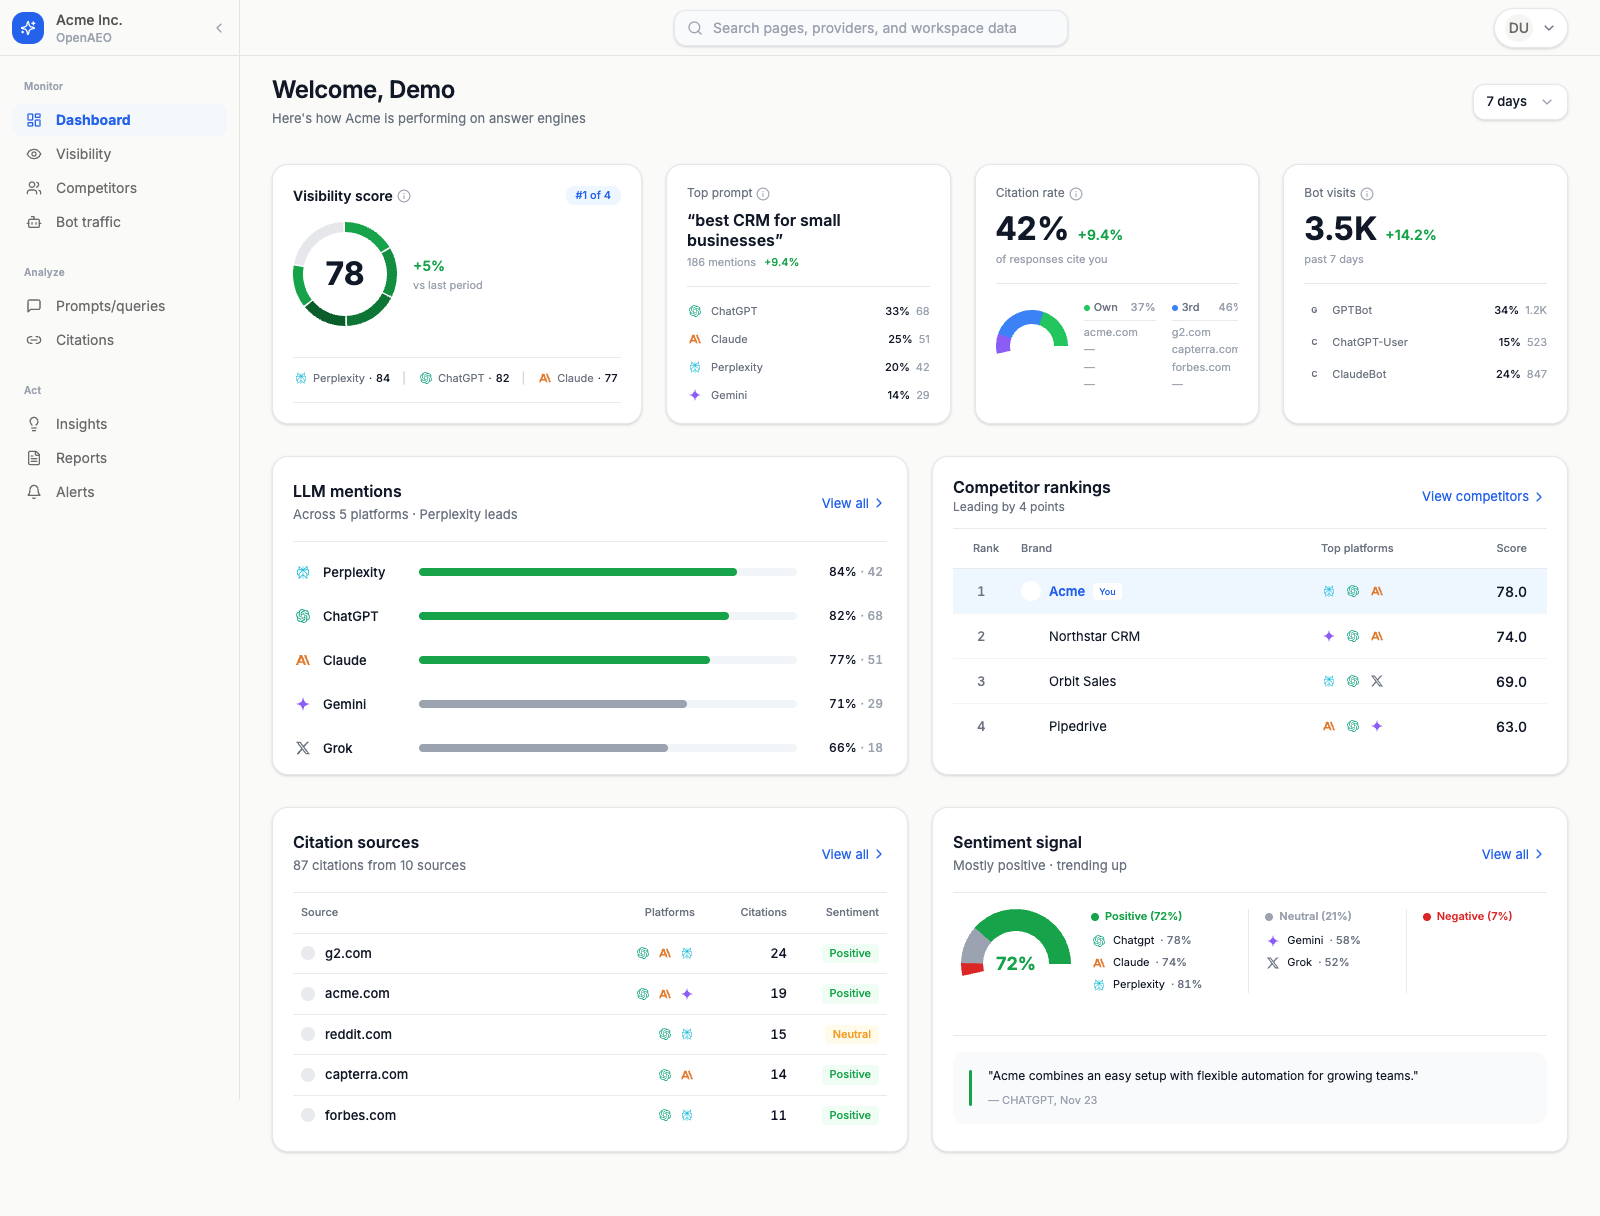
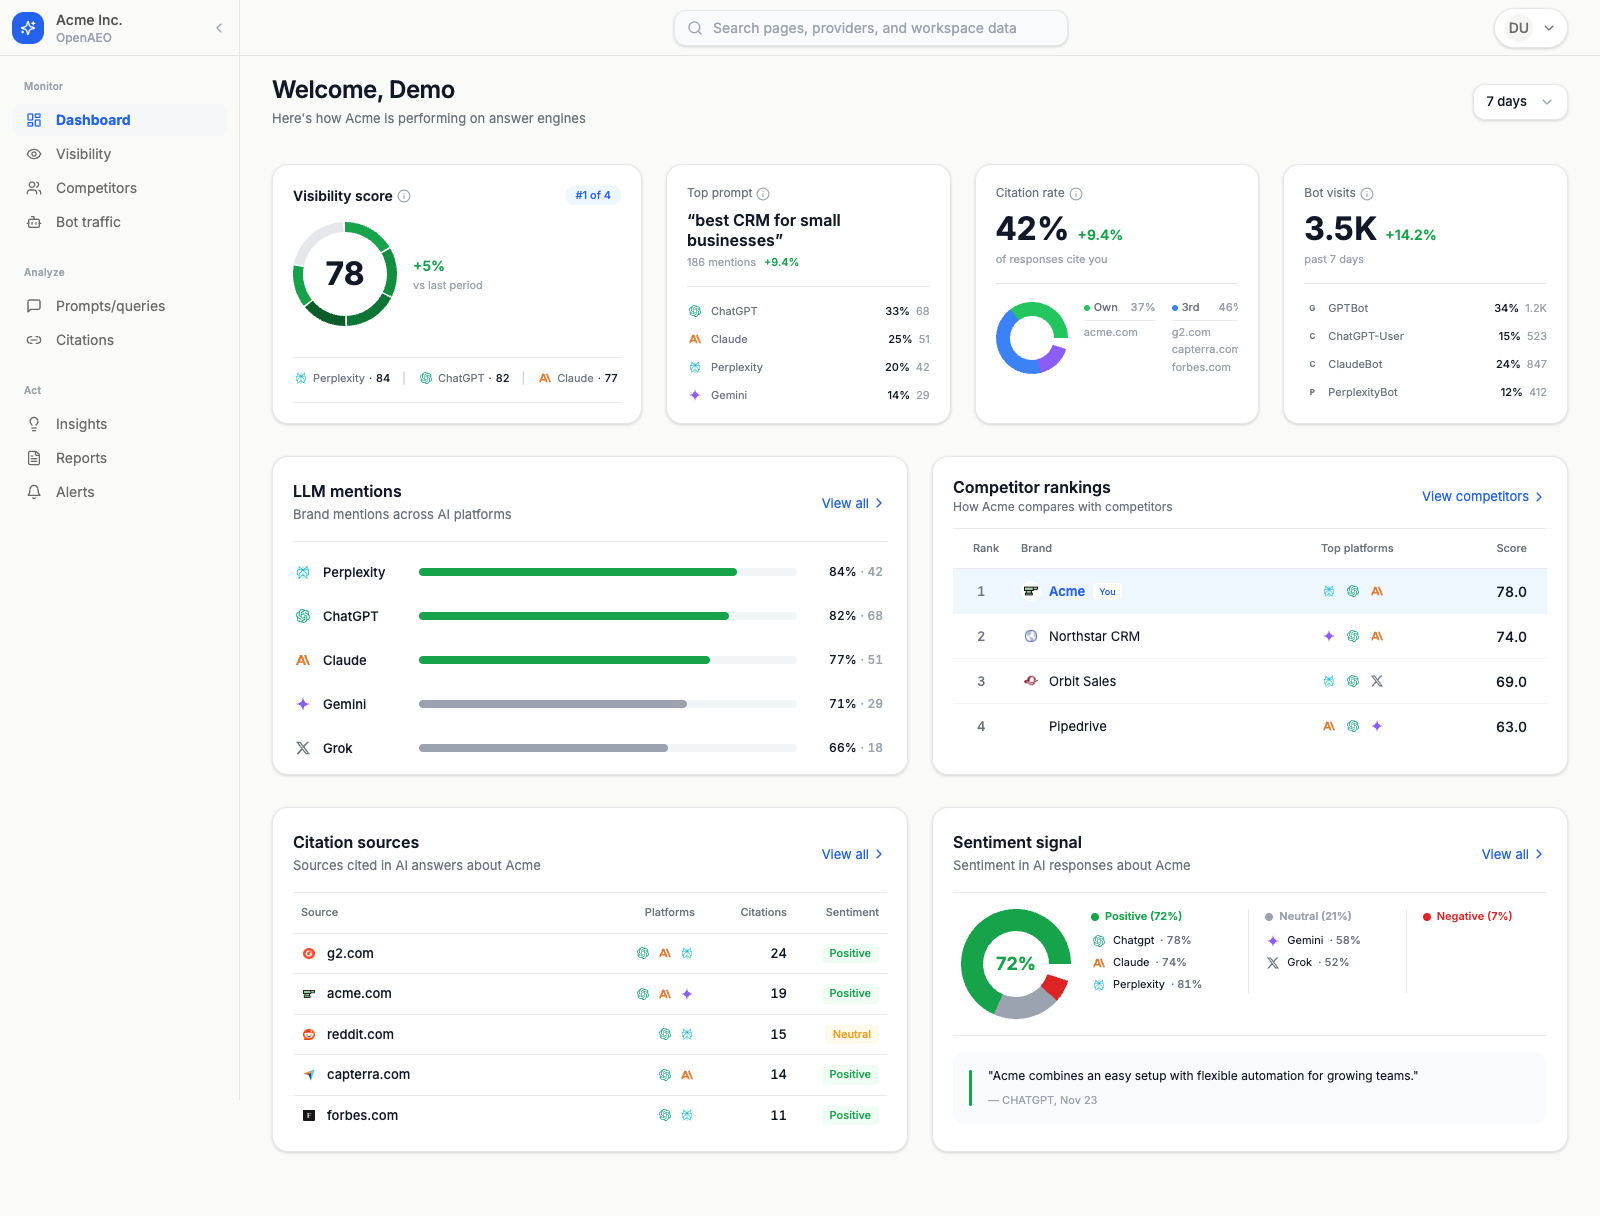
Polish dashboard preview details

diff --git a/api/routes/dashboard.ts b/api/routes/dashboard.ts
@@ -610,75 +610,13 @@ function categorizeCitationSources(
 /**
  * Build contextual card subtitles
  */
-function buildCardSubtitles(
-  platformScores: PlatformScore[],
-  competitorRanks: CompetitorRank[],
-  citationSources: CategorizedCitationSources,
-  sentimentBreakdown: SentimentBreakdown,
-  topPlatform: { id: string; name: string; icon: string }
-): DashboardResponse['cardSubtitles'] {
-  // LLM mentions
-  const activePlatformCount = platformScores.filter(p => p.mentions > 0).length;
-  const llmMentionsSubtitle =
-    activePlatformCount > 0 ? `Across ${activePlatformCount} platforms · ${topPlatform.name} leads` : "Where you're visible";
-
-  // Competitor rankings
-  let competitorRankingsSubtitle = 'Your position in the market';
-  if (competitorRanks.length > 1) {
-    const brandRankEntry = competitorRanks.find(c => c.isYou);
-    if (brandRankEntry) {
-      if (brandRankEntry.rank === 1) {
-        const runner = competitorRanks.find(c => c.rank === 2);
-        const gap = runner ? Math.round(brandRankEntry.score - runner.score) : 0;
-        competitorRankingsSubtitle = gap > 0 ? `Leading by ${gap} pts` : 'Neck and neck with #2';
-      } else {
-        const leader = competitorRanks[0];
-        const gap = Math.round(leader.score - brandRankEntry.score);
-        competitorRankingsSubtitle = `${gap} pts behind ${leader.name}`;
-      }
-    }
-  }
-
-  // Citation sources - now using categorized data
-  const totalCitationCount = citationSources.owned.count + citationSources.thirdParty.count + citationSources.social.count;
-  const totalSources = citationSources.owned.sites.length + citationSources.thirdParty.sites.length + citationSources.social.sites.length;
-  const citationSourcesSubtitle =
-    totalCitationCount > 0 ? `${totalCitationCount} citations from ${totalSources} sources` : 'What AI cites about you';
-
-  // Citation footer - highlight the dominant category
-  let citationFooterText = '';
-  if (totalCitationCount > 0) {
-    // Find dominant category
-    const categories = [
-      { name: 'owned', ...citationSources.owned },
-      { name: 'third-party', ...citationSources.thirdParty },
-      { name: 'social', ...citationSources.social },
-    ].sort((a, b) => b.count - a.count);
-    const dominant = categories[0];
-    const topSite = dominant.sites[0] || '';
-    citationFooterText = topSite ? `${topSite} · ${dominant.count} citations · ${dominant.percentage}% ${dominant.name}` : '';
-  }
-
-  // Sentiment signal
-  const dominantSentiment =
-    sentimentBreakdown.positive >= sentimentBreakdown.neutral && sentimentBreakdown.positive >= sentimentBreakdown.negative
-      ? 'positive'
-      : sentimentBreakdown.negative >= sentimentBreakdown.positive && sentimentBreakdown.negative >= sentimentBreakdown.neutral
-        ? 'negative'
-        : 'neutral';
-  const sentimentTrendDir =
-    sentimentBreakdown.trend > 1 ? 'trending up' : sentimentBreakdown.trend < -1 ? 'trending down' : 'stable';
-  const sentimentSignalSubtitle =
-    sentimentBreakdown.positive + sentimentBreakdown.neutral + sentimentBreakdown.negative > 0
-      ? `Mostly ${dominantSentiment} · ${sentimentTrendDir}`
-      : 'How AI describes you';
-
+function buildCardSubtitles(brandName: string): DashboardResponse['cardSubtitles'] {
   return {
-    llmMentions: llmMentionsSubtitle,
-    competitorRankings: competitorRankingsSubtitle,
-    citationSources: citationSourcesSubtitle,
-    citationFooter: citationFooterText,
-    sentimentSignal: sentimentSignalSubtitle,
+    llmMentions: 'Brand mentions across AI platforms',
+    competitorRankings: `How ${brandName} compares with competitors`,
+    citationSources: `Sources cited in AI answers about ${brandName}`,
+    citationFooter: '',
+    sentimentSignal: `Sentiment in AI responses about ${brandName}`,
   };
 }
 
@@ -859,6 +797,7 @@ async function computeDashboardData(
       rank: index + 1,
       id: entity.isBrand ? 'your-brand' : entity.name.toLowerCase().replace(/\s+/g, '-'),
       name: entity.name,
+      domain: entity.isBrand ? activeBrandConfig?.domain || undefined : competitors.find(competitor => competitor.name === entity.name)?.domain || undefined,
       score: entity.score,
       trend,
       isYou: entity.isBrand,
@@ -1029,7 +968,7 @@ async function computeDashboardData(
   // =========================================================================
   const [onboarding, cardSubtitles] = await Promise.all([
     getOnboardingSteps(hasResponses),
-    Promise.resolve(buildCardSubtitles(platformScores, competitorRanks, citationSources, sentimentBreakdown, topPlatform)),
+    Promise.resolve(buildCardSubtitles(brandName)),
   ]);
 
   const activeAlerts = alertHistory.filter(a => a.status === 'pending').length;
@@ -1085,11 +1024,11 @@ function createEmptyResponse(onboarding: Awaited<ReturnType<typeof getOnboarding
     brandName: undefined,
     period: { hasHistoricalData, hasDataInRange: false },
     cardSubtitles: {
-      llmMentions: "Where you're visible",
-      competitorRankings: 'Your position in the market',
-      citationSources: 'What AI cites about you',
+      llmMentions: 'Brand mentions across AI platforms',
+      competitorRankings: 'How your brand compares with competitors',
+      citationSources: 'Sources cited in AI answers about your brand',
       citationFooter: '',
-      sentimentSignal: 'How AI describes you',
+      sentimentSignal: 'Sentiment in AI responses about your brand',
     },
     visibility: { score: 0, previousScore: 0, trend: 0, trendDirection: 'stable' },
     metrics: {

diff --git a/client/src/components/dashboard/citation-sources-card.tsx b/client/src/components/dashboard/citation-sources-card.tsx
@@ -5,6 +5,7 @@ import { Search } from 'lucide-react';
 import { SentimentBadge } from '@/components/shared';
 import { TableHeader } from '@/components/shared';
 import { PlatformIcon } from '@/components/ui/platform-icon';
+import { CompanyAvatar } from '@/components/ui/company-avatar';
 import { Tooltip, TooltipContent, TooltipProvider, TooltipTrigger } from '@/components/ui/tooltip';
 
 interface CitationSource {
@@ -83,7 +84,7 @@ export function CitationSourcesCard({
                                             )}
                                         >
                                             <div className="flex items-center gap-2.5 min-w-0">
-                                                <div className="w-3.5 h-3.5 rounded-full bg-figma-border-light shrink-0" />
+                                                <CompanyAvatar name={source.domain} domain={source.domain} size="xs" />
                                                 <span className="text-figma-sm font-medium text-figma-primary truncate">
                                                     {source.domain}
                                                 </span>
@@ -107,7 +108,7 @@ export function CitationSourcesCard({
                                     >
                                         <div className="bg-figma-card rounded-xl p-4 min-w-[220px] border border-figma-border shadow-lg">
                                             <div className="flex items-center gap-2 mb-3">
-                                                <div className="w-4 h-4 rounded-full bg-figma-border-light shrink-0" />
+                                                <CompanyAvatar name={source.domain} domain={source.domain} size="sm" />
                                                 <span className="text-figma-base font-semibold text-figma-primary">{source.domain}</span>
                                             </div>
                                             <div className="h-px bg-figma-border-light mb-3" />

diff --git a/client/src/components/competitors/competitor-metrics.tsx b/client/src/components/competitors/competitor-metrics.tsx
@@ -603,7 +603,7 @@ const TOPIC_COLORS: Record<string, { bg: string; text: string }> = {
 };
 
 function TopicBadge({ topic }: { topic: string }) {
-  const colors = TOPIC_COLORS[topic] || { bg: 'bg-gray-50', text: 'text-gray-600' };
+  const colors = TOPIC_COLORS[topic] || { bg: 'bg-figma-hover', text: 'text-figma-secondary' };
   return (
     <span className={cn('px-1.5 py-0.5 rounded text-[10px] font-medium truncate max-w-[60px]', colors.bg, colors.text)}>
       {topic}
@@ -706,7 +706,7 @@ export function HighIntentCard({ data, isLoading, noPeriodData = false }: HighIn
                   {query}
                 </span>
                 <div className="w-[70px] flex justify-center">
-                  <span className="px-1.5 py-0.5 rounded text-[10px] font-medium bg-gray-50 text-gray-400">
+                  <span className="px-1.5 py-0.5 rounded text-[10px] font-medium bg-figma-hover text-figma-muted">
                     Topic
                   </span>
                 </div>
@@ -840,11 +840,9 @@ export function CitationRateCompetitorCard({ data, isLoading, noPeriodData = fal
               <div className="flex gap-3">
                 {sourceGroups.map((source) => (
                   <div key={source.label} className="w-[80px] shrink-0 space-y-0.5">
-                    {Array.from({ length: 4 }).map((_, index) => (
-                      <p key={index} className="text-figma-2xs text-figma-muted truncate">
-                        {source.sites[index] || '—'}
-                      </p>
-                    ))}
+                    {source.sites.length > 0 ? source.sites.slice(0, 4).map((site) => (
+                      <p key={site} className="text-figma-2xs text-figma-muted truncate">{site}</p>
+                    )) : <p className="text-figma-2xs text-figma-muted">No sources</p>}
                   </div>
                 ))}
               </div>

diff --git a/client/src/components/dashboard/citation-rate-card.tsx b/client/src/components/dashboard/citation-rate-card.tsx
@@ -100,7 +100,6 @@ export function CitationRateCard({
                                     cy="50%"
                                     innerRadius={22}
                                     outerRadius={36}
-                                    paddingAngle={0}
                                     dataKey="percentage"
                                     stroke="none"
                                 >
@@ -149,11 +148,9 @@ export function CitationRateCard({
                                         </span>
                                     </div>
                                     <div className="space-y-0.5">
-                                        {Array.from({ length: 4 }).map((_, index) => (
-                                            <p key={index} className="text-figma-2xs text-figma-muted truncate">
-                                                {source.sites[index] || '—'}
-                                            </p>
-                                        ))}
+                                        {source.sites.length > 0 ? source.sites.slice(0, 4).map((site) => (
+                                            <p key={site} className="text-figma-2xs text-figma-muted truncate">{site}</p>
+                                        )) : <p className="text-figma-2xs text-figma-muted">No sources</p>}
                                     </div>
                                 </div>
                                 ))}

diff --git a/client/src/lib/demo-preview.ts b/client/src/lib/demo-preview.ts
@@ -29,6 +29,7 @@ function ranks() {
     rank: company.rank,
     id: company.id,
     name: company.name,
+    domain: company.domain,
     score: company.score,
     trend: company.trend,
     isYou: company.isYou,
@@ -40,7 +41,7 @@ export function getDemoDashboard(): DashboardResponse {
   return {
     brandName: DEMO_CONFIG.brandName,
     period: { hasHistoricalData: true, hasDataInRange: true },
-    cardSubtitles: { llmMentions: 'Across 5 platforms · Perplexity leads', competitorRankings: 'Leading by 4 points', citationSources: '87 citations from 10 sources', citationFooter: 'G2 leads with 24 citations', sentimentSignal: 'Mostly positive · trending up' },
+    cardSubtitles: { llmMentions: 'Brand mentions across AI platforms', competitorRankings: `How ${DEMO_CONFIG.brandName} compares with competitors`, citationSources: `Sources cited in AI answers about ${DEMO_CONFIG.brandName}`, citationFooter: '', sentimentSignal: `Sentiment in AI responses about ${DEMO_CONFIG.brandName}` },
     visibility: { score: 78, previousScore: 73, trend: 6.8, trendDirection: 'up' },
     metrics: { totalMentions: 208, mentionsTrend: 9.4, avgSentiment: 0.72, sentimentTrend: 4.1, topPlatform: { id: 'perplexity', name: 'Perplexity', icon: 'perplexity' }, activeAlerts: 2 },
     platforms,

diff --git a/client/src/pages/app/dashboard.tsx b/client/src/pages/app/dashboard.tsx
@@ -422,7 +422,7 @@ export function DashboardPage() {
               <div>
                 <span className="block text-figma-md font-semibold text-figma-primary leading-tight">Competitor rankings</span>
                 <span className="text-figma-xs font-normal text-figma-secondary mt-0.5 truncate max-w-[220px] block">
-                  {dashboardData!.cardSubtitles?.competitorRankings || 'Your position in the market'}
+                  {dashboardData!.cardSubtitles?.competitorRankings || 'How your brand compares with competitors'}
                 </span>
               </div>
               <button
@@ -449,6 +449,7 @@ export function DashboardPage() {
                 rank: c.rank,
                 id: c.id,
                 name: c.name,
+                domain: c.domain,
                 score: c.score,
                 trend: c.trend,
                 isYou: c.isYou,

diff --git a/client/src/components/competitors/competitor-leaderboard.tsx b/client/src/components/competitors/competitor-leaderboard.tsx
@@ -6,6 +6,7 @@ interface CompetitorRank {
   rank: number;
   id?: string;
   name: string;
+  domain?: string;
   score: number;
   trend: number;
   isYou: boolean;
@@ -84,7 +85,7 @@ export function CompetitorLeaderboard({
             <div className="flex items-center gap-2 min-w-0">
               {isEmpty
                 ? <div className="w-5 h-5 rounded-full shrink-0 bg-figma-hover" />
-                : <CompanyAvatar name={competitor.name} />
+                : <CompanyAvatar name={competitor.name} domain={competitor.domain} />
               }
               <span className={`text-figma-sm truncate ${competitor.isYou ? "font-semibold text-figma-blue" : "font-normal text-figma-primary"}`}>
                 {competitor.name}

diff --git a/client/src/components/dashboard/bot-visits-card.tsx b/client/src/components/dashboard/bot-visits-card.tsx
@@ -76,7 +76,7 @@ export function BotVisitsCard({
                                 key={bot.id}
                                 platformId={bot.id}
                                 name={bot.name}
-                                iconSize="sm"
+                                iconSize="xs"
                                 value={`${bot.percentage}%`}
                                 secondaryValue={bot.count}
                             />

diff --git a/shared/types/dashboard.ts b/shared/types/dashboard.ts
@@ -92,6 +92,7 @@ export interface CompetitorRank {
   rank: number;
   id: string;
   name: string;
+  domain?: string;
   score: number;
   trend: number;
   isYou: boolean;           // true for user's brand
